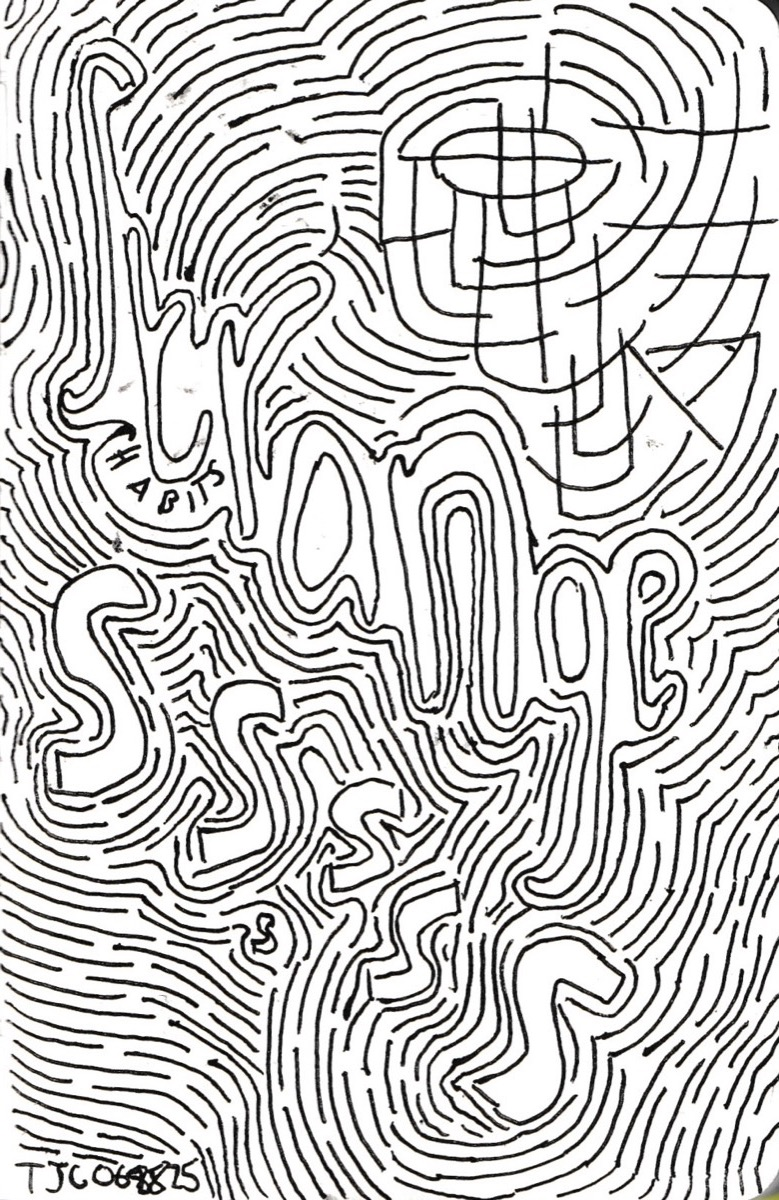
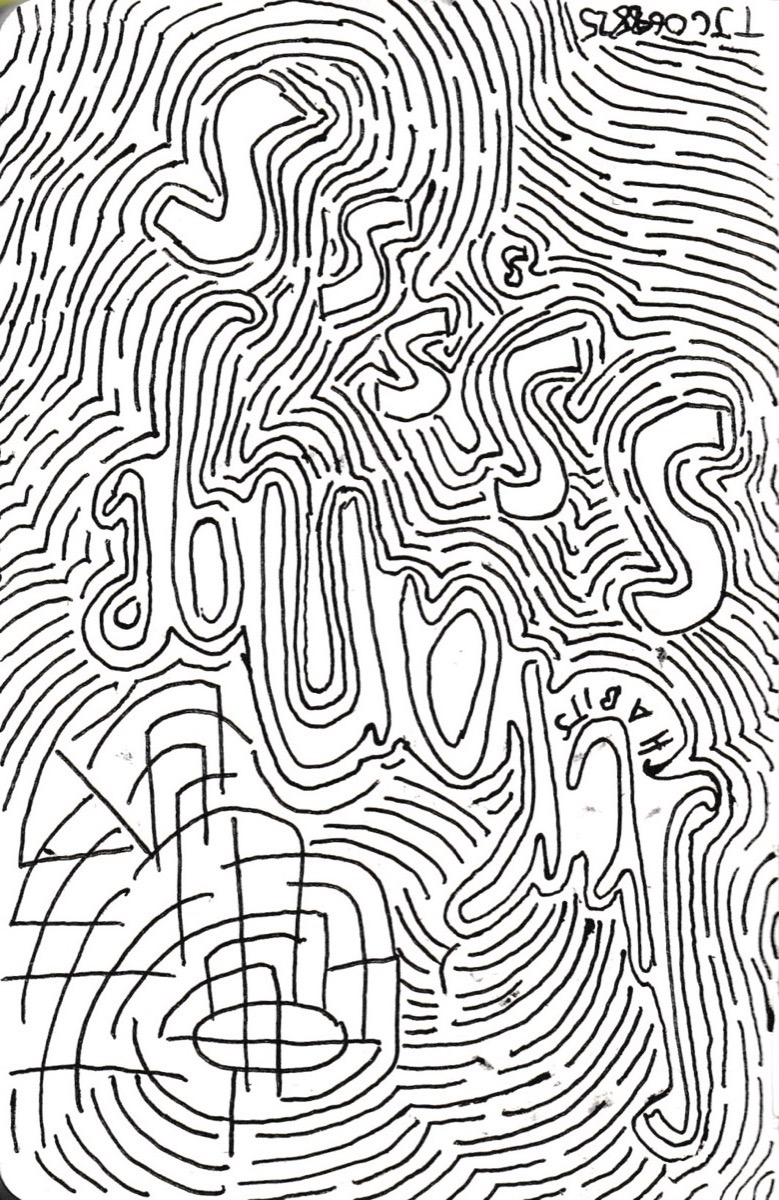
Fix mobile footer, canvas scaling, and implement cache busting

diff --git a/styles.css b/styles.css
@@ -30,11 +30,12 @@ body {
     position: fixed;
     top: 0;
     left: 0;
-    width: 100%;
-    height: 100%;
+    width: 100vw !important;
+    height: 100vh !important;
     z-index: -1;
     opacity: 0.4;
     image-rendering: pixelated;
+    pointer-events: none;
 }
 
 /* CRT Scanline Effect */
@@ -44,8 +45,8 @@ body::after {
   position: fixed;
   top: 0;
   left: 0;
-  bottom: 0;
-  right: 0;
+  width: 100vw;
+  height: 100vh;
   background: linear-gradient(rgba(18, 16, 16, 0) 50%, rgba(0, 0, 0, 0.25) 50%), linear-gradient(90deg, rgba(255, 0, 0, 0.06), rgba(0, 255, 0, 0.02), rgba(0, 0, 255, 0.06));
   z-index: 1000;
   background-size: 100% 2px, 3px 100%;
@@ -197,6 +198,16 @@ footer {
   border-top: 1px solid var(--text-color);
   z-index: 100;
   backdrop-filter: blur(5px);
+}
+
+@media (max-width: 768px) {
+    body {
+        padding-bottom: 0; /* Let footer be static at the end */
+    }
+    footer {
+        position: static;
+        margin-top: 4rem;
+    }
 }
 
 .back-link {

diff --git a/index.html b/index.html
@@ -5,7 +5,7 @@
     <meta name="viewport" content="width=device-width, initial-scale=1.0">
     <title>strange habits</title>
     <meta name="description" content="strange habits - a screen printing and design project">
-    <link rel="stylesheet" href="styles.css">
+    <link rel="stylesheet" href="styles.css?v=1.1">
     <link rel="stylesheet" href="https://cdn.jsdelivr.net/npm/katex@0.16.9/dist/katex.min.css" crossorigin="anonymous">
     <script defer src="https://cdn.jsdelivr.net/npm/katex@0.16.9/dist/katex.min.js" crossorigin="anonymous"></script>
     <script defer src="https://cdn.jsdelivr.net/npm/katex@0.16.9/dist/contrib/auto-render.min.js" crossorigin="anonymous"></script>
@@ -35,7 +35,7 @@
             </nav>
 
             <div class="home-image">
-                <img src="images/optimized/weirdo.jpg" alt="weirdo" decoding="async">
+                <img src="images/optimized/weirdo.jpg?v=1.1" alt="weirdo" decoding="async">
             </div>
         </div>
     </main>
@@ -43,7 +43,7 @@
 
 <footer>made with love in san francisco, california</footer>
 
-<script src="scripts.js"></script>
+<script src="scripts.js?v=1.1"></script>
 <script>
     // KaTeX Init
     document.addEventListener("DOMContentLoaded", function() {